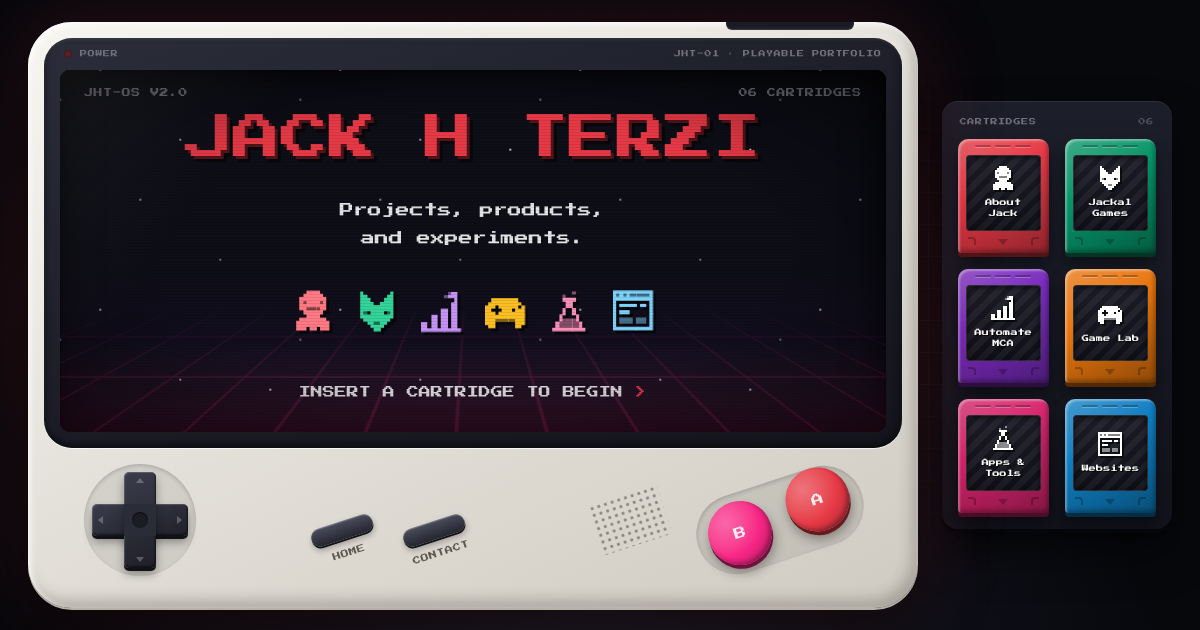
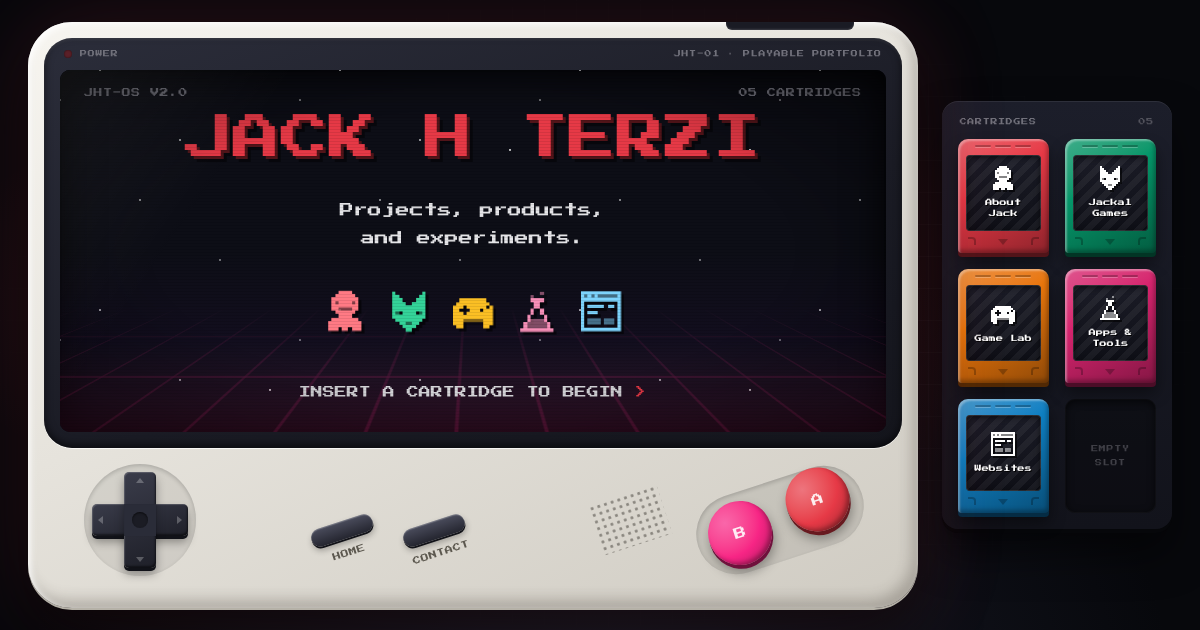
Remove Automate MCA cartridge, add Play links for the games
- Drop the Automate MCA cartridge, its screen and its sprite
- Wildcard Ruins and NetBattle Arena cards now link to their playable builds
- Pad the cartridge shelf with an empty slot so five carts sit evenly
- Regenerate the social preview image

Claude-Session: https://claude.ai/code/session_01WbM6upWZAetxLQkDRmFqtz

Changed region(s): [[0.7708, 0.4222, 0.9867, 0.8444], [0.2467, 0.4524, 0.555, 0.5429]]

diff --git a/src/components/CartridgeSystem.js b/src/components/CartridgeSystem.js
@@ -62,6 +62,10 @@ export function Cartridge({ item, onClick, isSelected }) {
 }
 
 export function CartridgeSelector({ items, onSelect, activeCartridge, insertingCartridge }) {
+  // The shelf is 3 wide on phones and 2 wide on desktop; pad with empty
+  // slots so neither layout ends on a ragged row.
+  const emptySlots = (6 - (items.length % 6)) % 6;
+
   return (
     <div className="shelf rounded-2xl p-2.5 desk:p-4 w-full desk:w-auto">
       <div className="flex items-center justify-between mb-2 desk:mb-3 px-0.5">
@@ -78,6 +82,15 @@ export function CartridgeSelector({ items, onSelect, activeCartridge, insertingC
             onClick={(e) => onSelect(item, e)}
             isSelected={activeCartridge?.id === item.id || insertingCartridge?.id === item.id}
           />
+        ))}
+        {Array.from({ length: emptySlots }).map((_, i) => (
+          <div
+            key={`empty-${i}`}
+            aria-hidden="true"
+            className="cart-slot rounded-[10px] w-full h-14 desk:w-[clamp(5.25rem,7.6vw,7rem)] desk:h-auto desk:aspect-[4/5] flex items-center justify-center font-pixel text-[6px] desk:text-[7px] leading-loose tracking-widest text-zinc-700 text-center"
+          >
+            EMPTY<br className="hidden desk:block" /> SLOT
+          </div>
         ))}
       </div>
     </div>

diff --git a/src/data/projects.js b/src/data/projects.js
@@ -5,6 +5,8 @@ export const GAMES = [
     title: 'Wildcard Ruins',
     tagline: '3D action RPG where your deck is your mana.',
     status: 'In development',
+    url: 'https://opennet-lzi2.onrender.com/',
+    linkLabel: 'Play in browser',
     image: { src: '/projects/wildcard.jpg', alt: 'Wildcard Ruins title screen: a hooded hero with a staff in a village', shape: 'wide' },
     description:
       'A real-time action RPG that runs in the browser. Make a hero, explore an island of overgrown ruins, and fight creatures live while playing spell cards drawn from a deck that doubles as your mana pool.',
@@ -21,6 +23,8 @@ export const GAMES = [
     title: 'NetBattle Arena',
     tagline: 'Grid-based battler built for one-thumb play.',
     status: 'In development',
+    url: 'https://webbattle.jackhterzi.workers.dev/',
+    linkLabel: 'Play in browser',
     image: { src: '/projects/netbattle.png', alt: 'NetBattle Arena title screen and menu', shape: 'tall' },
     description:
       'A 2D grid battle game with a dual-screen layout: the battlefield on top, touch controls below. Dodge across your side of the grid, fire your buster, and play chips from a 20-chip deck against viruses and bosses.',

diff --git a/src/app/page.js b/src/app/page.js
@@ -11,7 +11,6 @@ import AboutContent from '@/components/sections/AboutContent';
 import JackalContent from '@/components/sections/JackalContent';
 import ProjectsContent from '@/components/sections/ProjectsContent';
 import ContactContent from '@/components/sections/ContactContent';
-import AutomateMCAContent from '@/components/sections/AutomateMCAContent';
 import GamesContent from '@/components/sections/GamesContent';
 import LabContent from '@/components/sections/LabContent';
 import SecretContent from '@/components/sections/SecretContent';
@@ -82,7 +81,6 @@ export default function Home() {
       case 'about': return <AboutContent />;
       case 'jackal': return <JackalContent />;
       case 'projects': return <ProjectsContent />;
-      case 'automatemca': return <AutomateMCAContent />;
       case 'games': return <GamesContent />;
       case 'lab': return <LabContent />;
       case 'contact': return <ContactContent />;

diff --git a/src/data/cartridges.js b/src/data/cartridges.js
@@ -3,7 +3,6 @@
 export const CARTRIDGES = [
   { id: 'about', title: 'About Jack', icon: 'about', color: '#E63946', accent: '#FF7A84' },
   { id: 'jackal', title: 'Jackal Games', icon: 'jackal', color: '#059669', accent: '#34D399' },
-  { id: 'automatemca', title: 'Automate MCA', icon: 'automatemca', color: '#7B2CBF', accent: '#C792F5' },
   { id: 'games', title: 'Game Lab', icon: 'games', color: '#E8760C', accent: '#FBBF24' },
   { id: 'lab', title: 'Apps & Tools', icon: 'lab', color: '#D6246E', accent: '#F78FB8' },
   { id: 'projects', title: 'Websites', icon: 'projects', color: '#0E7FC2', accent: '#7DD3FC' },

diff --git a/src/components/PixelIcon.js b/src/components/PixelIcon.js
@@ -33,21 +33,6 @@ const SPRITES = {
     '....####....',
     '.....##.....',
   ],
-  // Rising bars
-  automatemca: [
-    '........+##.',
-    '.......+###.',
-    '..........#.',
-    '.........##.',
-    '.........##.',
-    '......##.##.',
-    '......##.##.',
-    '...##.##.##.',
-    '...##.##.##.',
-    '##.##.##.##.',
-    '##.##.##.##.',
-    '############',
-  ],
   // Browser window
   projects: [
     '############',
